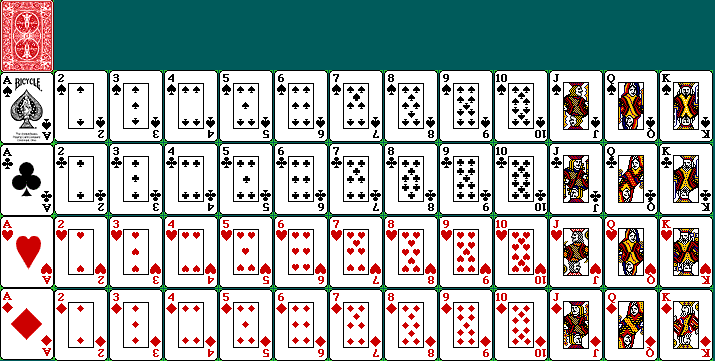
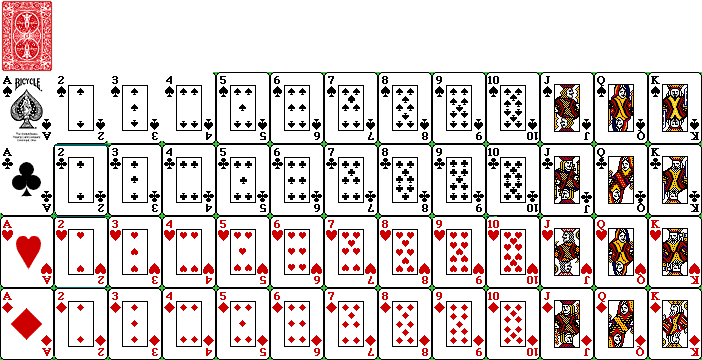
Card game logic

diff --git a/cardselector/script.js b/cardselector/script.js
@@ -1,21 +1,94 @@
-// document.addEventListener("DOMContentLoaded", function() {
-//     const cardContainer = document.getElementById("cardContainer");
-//     const card = document.getElementById("card");
-//     const cardBack = document.getElementById("cardBack");
-//     const cardSpritesheet = document.getElementById("cardSpritesheet");
+document.addEventListener("DOMContentLoaded", function () {
+    const playerCardDisplay = document.querySelector('.Card_spritesheet_player');
+    const dealerCardDisplay = document.querySelector('.Card_spritesheet_dealer');
+    const resultsElement = document.querySelector('.results p');
 
-//     cardContainer.addEventListener("click", function() {
-//         if (cardBack.style.display === "none") {
-//             // Card is showing the front side
-//             cardBack.style.display = "block";
-//             cardSpritesheet.style.display = "none";
-//         } else {
-//             // Card is showing the back side
-//             cardBack.style.display = "none";
-//             cardSpritesheet.style.display = "block";
 
-//             // Change the background position to show a different part of the spritesheet
-//             cardSpritesheet.style.backgroundPosition = "0 0"; // Adjust this according to your spritesheet layout
-//         }
-//     });
-// });
+
+    const cardValues = [
+        //Spades
+        { id: "oneSpades", transform: "translate3d(0, -20%, 0)", numericalValue: 1 },
+        { id: "twoSpades", transform: "translate3d(-7.7%, -20%, 0)", numericalValue: 2 },
+        { id: "threeSpades", transform: "translate3d(-15.4%, -20%, 0)", numericalValue: 3 },
+        { id: "fourSpades", transform: "translate3d(-23.1%, -20%, 0)", numericalValue: 4 },
+        { id: "fiveSpades", transform: "translate3d(-30.8%, -20%, 0)", numericalValue: 5 },
+        { id: "sixSpades", transform: "translate3d(-38.5%, -20%, 0)", numericalValue: 6 },
+        { id: "sevenSpades", transform: "translate3d(-46.2%, -20%, 0)", numericalValue: 7 },
+        { id: "eightSpades", transform: "translate3d(-53.9%, -20%, 0)", numericalValue: 8 },
+        { id: "nineSpades", transform: "translate3d(-61.6%, -20%, 0)", numericalValue: 9 },
+        { id: "tenSpades", transform: "translate3d(-69.3%, -20%, 0)", numericalValue: 10 },
+        { id: "elevenSpades", transform: "translate3d(-77%, -20%, 0)", numericalValue: 11 },
+        { id: "twelveSpades", transform: "translate3d(-84.7%, -20%, 0)", numericalValue: 12 },
+        { id: "thirteenSpades", transform: "translate3d(-92.4%, -20%, 0)", numericalValue: 13 },
+        //Clubs
+        { id: "oneClubs", transform: "translate3d(0, -40%, 0)", numericalValue: 1 },
+        { id: "twoClubs", transform: "translate3d(-7.7%, -40%, 0)", numericalValue: 2 },
+        { id: "threeClubs", transform: "translate3d(-15.4%, -40%, 0)", numericalValue: 3 },
+        { id: "fourClubs", transform: "translate3d(-23.1%, -40%, 0)", numericalValue: 4 },
+        { id: "fiveClubs", transform: "translate3d(-30.8%, -40%, 0)", numericalValue: 5 },
+        { id: "sixClubs", transform: "translate3d(-38.5%, -40%, 0)", numericalValue: 6 },
+        { id: "sevenClubs", transform: "translate3d(-46.2%, -40%, 0)", numericalValue: 7 },
+        { id: "eightClubs", transform: "translate3d(-53.9%, -40%, 0)", numericalValue: 8 },
+        { id: "nineClubs", transform: "translate3d(-61.6%, -40%, 0)", numericalValue: 9 },
+        { id: "tenClubs", transform: "translate3d(-69.3%, -40%, 0)", numericalValue: 10 },
+        { id: "elevenClubs", transform: "translate3d(-77%, -40%, 0)", numericalValue: 11 },
+        { id: "twelveClubs", transform: "translate3d(-84.7%, -40%, 0)", numericalValue: 12 },
+        { id: "thirteenClubs", transform: "translate3d(-92.4%, -40%, 0)", numericalValue: 13 },
+        //Hearts
+        { id: "oneHearts", transform: "translate3d(0, -60%, 0)", numericalValue: 1 },
+        { id: "twoHearts", transform: "translate3d(-7.7%, -60%, 0)", numericalValue: 2 },
+        { id: "threeHearts", transform: "translate3d(-15.4%, -60%, 0)", numericalValue: 3 },
+        { id: "fourHearts", transform: "translate3d(-23.1%, -60%, 0)", numericalValue: 4 },
+        { id: "fiveHearts", transform: "translate3d(-30.8%, -60%, 0)", numericalValue: 5 },
+        { id: "sixHearts", transform: "translate3d(-38.5%, -60%, 0)", numericalValue: 6 },
+        { id: "sevenHearts", transform: "translate3d(-46.2%, -60%, 0)", numericalValue: 7 },
+        { id: "eightHearts", transform: "translate3d(-53.9%, -60%, 0)", numericalValue: 8 },
+        { id: "nineHearts", transform: "translate3d(-61.6%, -60%, 0)", numericalValue: 9 },
+        { id: "tenHearts", transform: "translate3d(-69.3%, -60%, 0)", numericalValue: 10 },
+        { id: "elevenHearts", transform: "translate3d(-77%, -60%, 0)", numericalValue: 11 },
+        { id: "twelveHeartss", transform: "translate3d(-84.7%, -60%, 0)", numericalValue: 12 },
+        { id: "thirteenHearts", transform: "translate3d(-92.4%, -60%, 0)", numericalValue: 13 },
+        //Diamonds
+        { id: "oneDiamonds", transform: "translate3d(0, -80%, 0)", numericalValue: 1 },
+        { id: "twoDiamonds", transform: "translate3d(-7.7%, -80%, 0)", numericalValue: 2 },
+        { id: "threeDiamonds", transform: "translate3d(-15.4%, -80%, 0)", numericalValue: 3 },
+        { id: "fourDiamonds", transform: "translate3d(-23.1%, -80%, 0)", numericalValue: 4 },
+        { id: "fiveDiamonds", transform: "translate3d(-30.8%, -80%, 0)", numericalValue: 5 },
+        { id: "sixDiamonds", transform: "translate3d(-38.5%, -80%, 0)", numericalValue: 6 },
+        { id: "sevenDiamonds", transform: "translate3d(-46.2%, -80%, 0)", numericalValue: 7 },
+        { id: "eightDiamonds", transform: "translate3d(-53.9%, -80%, 0)", numericalValue: 8 },
+        { id: "nineDiamonds", transform: "translate3d(-61.6%, -80%, 0)", numericalValue: 9 },
+        { id: "tenDiamonds", transform: "translate3d(-69.3%, -80%, 0)", numericalValue: 10 },
+        { id: "elevenDiamonds", transform: "translate3d(-77%, -80%, 0)", numericalValue: 11 },
+        { id: "twelveDiamonds", transform: "translate3d(-84.7%, -80%, 0)", numericalValue: 12 },
+        { id: "thirteenDiamonds", transform: "translate3d(-92.4%, -80%, 0)", numericalValue: 13 },
+    ];
+
+    let isFlipped = false;
+    let originalTransformPlayer = playerCardDisplay.style.transform;
+    let originalTransformDealer = dealerCardDisplay.style.transform;
+    
+    playerCardDisplay.addEventListener('click', function () {
+        const playerRandomIndex = Math.floor(Math.random() * cardValues.length);
+        const selectedPlayerCard = cardValues[playerRandomIndex];
+
+        let dealerCardValues = cardValues.filter(card => card !== selectedPlayerCard);
+        const dealerRandomIndex = Math.floor(Math.random() * dealerCardValues.length);
+        let selectedDealerCard = dealerCardValues[dealerRandomIndex]; 
+
+        if (isFlipped) {
+            playerCardDisplay.style.transform = originalTransformPlayer;
+            dealerCardDisplay.style.transform = originalTransformDealer; 
+        } else {
+            playerCardDisplay.style.transform = selectedPlayerCard.transform;
+            dealerCardDisplay.style.transform = selectedDealerCard.transform;
+            if (selectedPlayerCard.numericalValue > selectedDealerCard.numericalValue) {
+                resultsElement.innerHTML = `You: ${selectedPlayerCard.numericalValue} <br> Dealer: ${selectedDealerCard.numericalValue} <br><br> <span> You win! </span>`;
+            } else {
+                resultsElement.innerHTML = `You: ${selectedPlayerCard.numericalValue} <br> Dealer: ${selectedDealerCard.numericalValue} <br><br> <span> You lose! </span>`; 
+            }
+        }
+
+        isFlipped = !isFlipped;
+    });
+});

diff --git a/cardselector/index.html b/cardselector/index.html
@@ -7,31 +7,20 @@
     <title>Card Flip</title>
 </head>
 <body>
-    <div class="Card">
-           
-        <img class="Card_spritesheet pixelart face-down" src="cards.png" alt="Card" />
-        
-        
-     </div>
-     <div class="Card">
-           
-        <img class="Card_spritesheet pixelart face-down" src="cards.png" alt="Card" />
-        
-        
-     </div>
-     <div class="Card">
-           
-        <img class="Card_spritesheet pixelart face-down" src="cards.png" alt="Card" />
-        
-        
-     </div>
-     <div class="Card">
-           
-        <img class="Card_spritesheet pixelart face-down" src="cards.png" alt="Card" />
-        
-        
-     </div>
+   <div class="card-container">
+      <p>Your card:</p>
+      <div class="Card">
+         <img class="Card_spritesheet_player pixelart face-down" src="cards.png" alt="Card" />
+      </div>
+   </div>
+   <div class="card-container">
+      <p>Dealer's card:</p>
+      <div class="Card">
+         <img class="Card_spritesheet_dealer pixelart" src="cards.png" alt="Card" />
+      </div>
+   </div>
+   <div class="results"><h2>Results</h2><p>Draw a card!</p></div>
 
-    <script src="script.js"></script>
+   <script src="script.js"></script>
 </body>
 </html>

diff --git a/cardselector/style.css b/cardselector/style.css
@@ -8,6 +8,16 @@
     justify-content: space-around;
  }
 
+ .card-container {
+    position: relative;
+    border-style: dotted;
+    width: 250px;
+}
+
+.card-container p {
+    margin: 15px;
+}
+
  .Card {
     width: calc(31px * var(--pixel-size));
     height: calc(43px * var(--pixel-size));
@@ -21,16 +31,25 @@
     box-shadow: 10px 5px 5px black;
  }
  
- .Card_spritesheet {
-    animation: moveSpritesheet 2s steps(5) infinite;
+ .Card_spritesheet_player, .Card_spritesheet_dealer {
     width: calc(410px * var(--pixel-size));
     height: calc(219px * var(--pixel-size));
     position: absolute;    
+    transform: translate3d(0, 0%, 0);
  }
 
  .pixelart {
     image-rendering: pixelated;
  }
+
+.results {
+    text-align: center;
+}
+
+.results span{
+    font-weight: bolder;
+    font-size: larger;
+}
 
  @keyframes moveSpritesheet {
     from {
